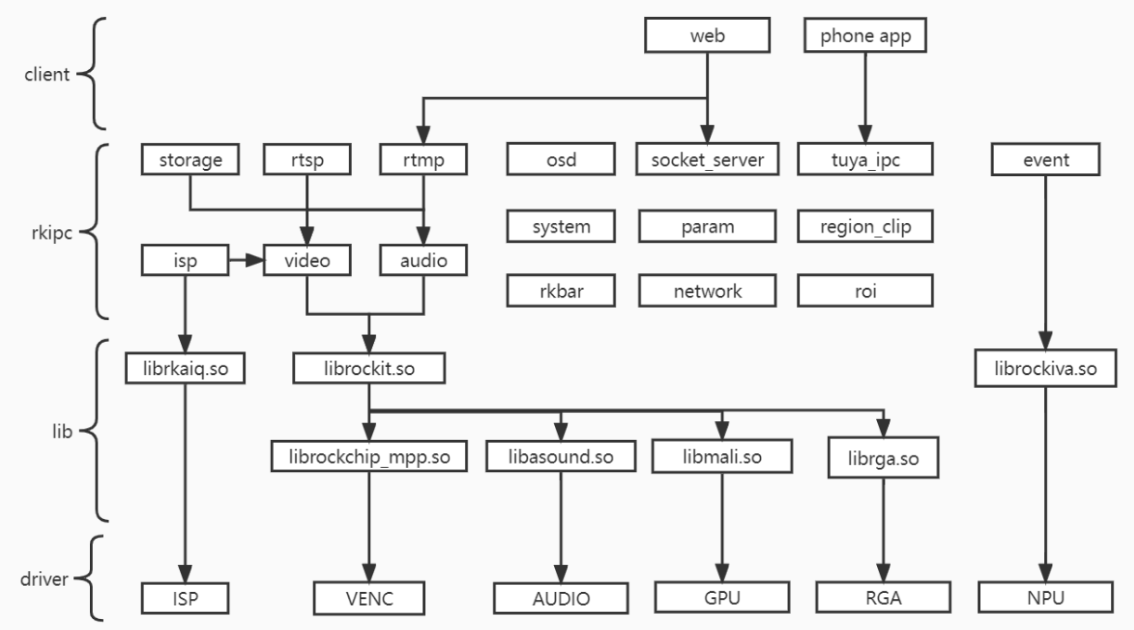
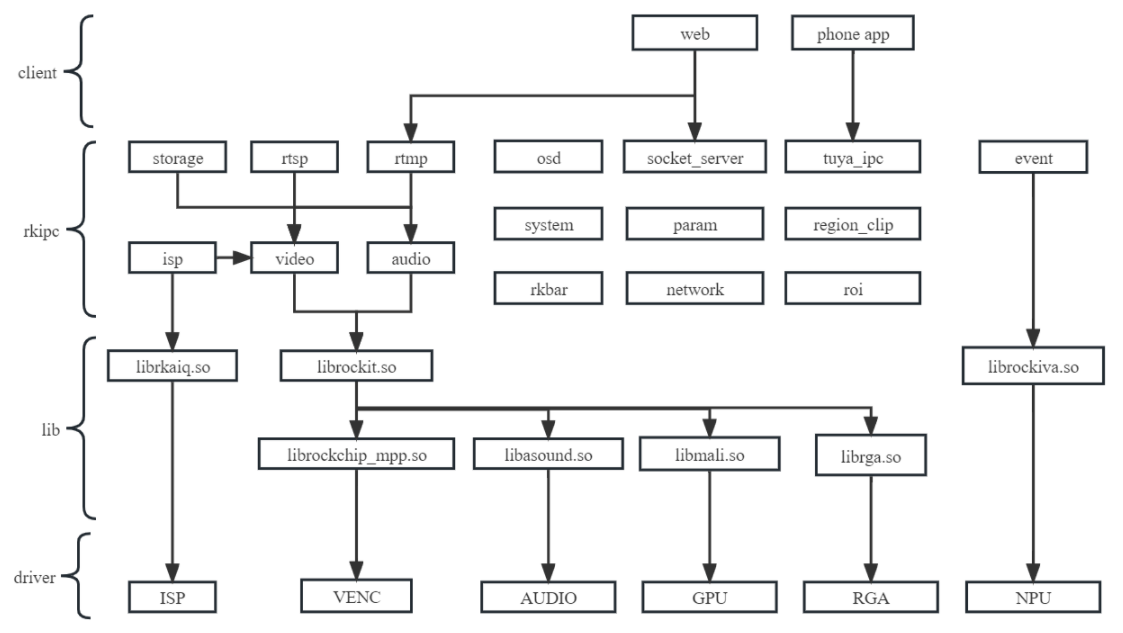
docs: supplementary document update record for v1.6.1

Changed region(s): [[0.0, 0.0, 0.9973, 0.9952]]

diff --git a/docs/Rockchip_Developer_Guide_Linux_RKIPC_CN.md b/docs/Rockchip_Developer_Guide_Linux_RKIPC_CN.md
@@ -2,9 +2,9 @@
 
 文件标识：RK-KF-YF-937
 
-发布版本：V1.6.0
+发布版本：V1.6.1
 
-日期：2022-12-02
+日期：2023-02-18
 
 文件密级：□绝密   □秘密   □内部资料   ■公开
 
@@ -83,6 +83,7 @@ Rockchip Electronics Co., Ltd.
 | V1.4.0     | 林刘迪铭 | 2022-10-10   | 修改RV1106 IPC和RV1103 IPC的IVS模块流程框图，</br>rv1106_battery_ipc细分为rv1106_battery_ipc_client和rv1106_battery_ipc_tuya。 |
 | V1.5.0     | 林刘迪铭 | 2022-10-25   | 修改ini模块参数说明，新增音视频模块API介绍。                 |
 | V1.6.0     | 林刘迪铭 | 2022-12-02   | 新增RV1106 Dual-IPC框图。                                    |
+| V1.6.1     | 林刘迪铭 | 2323-02-18   | 修改RV1126 IPC Rockit流程框图                                |
 
 ---
 
@@ -168,11 +169,11 @@ graph LR
 ```
 
 ### RV1106 Dual-IPC
+
 ```mermaid
 graph LR
 	VI_0-->AVS
 	VI_1-->AVS-->VPSS-->VENC_0-->RTSP
-
 ```
 
 ### RK3588 IPC
